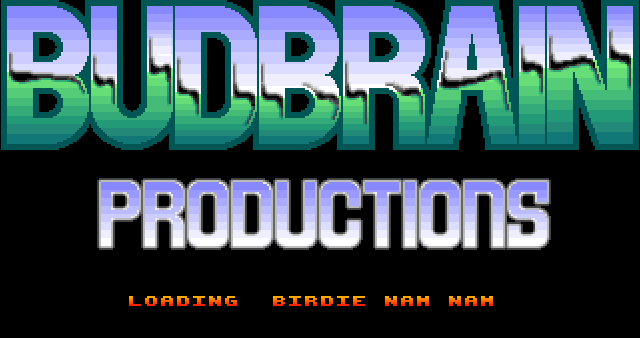
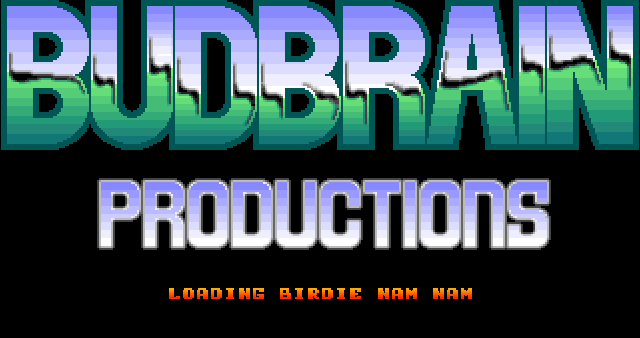
Added audio unlock handler

Changed region(s): [[0.1875, 0.8284, 0.7812, 0.9172]]

diff --git a/public/src/demoscene/birdy nam nam.js b/public/src/demoscene/birdy nam nam.js
@@ -10,7 +10,10 @@ var demoSceneConfig = {
     active: false,
     visible: false,
     preload: preload,
-    create: create
+    create: create,
+    extend: {
+        startDemo: startDemo
+    }
 };
 
 var config = {
@@ -27,23 +30,25 @@ var egg = 0;
 var chick1;
 var chick2;
 var chick3;
+var loadImage;
 
 var game = new Phaser.Game(config);
 
 function bootLoader ()
 {
     this.load.image('loader', 'assets/demoscene/birdy-nam-nam-loader.png');
+    this.load.image('click', 'assets/demoscene/birdy-nam-nam-click.png');
 }
 
 function bootCreate ()
 {
-    this.add.image(0, 0, 'loader').setOrigin(0);
-
-    this.scene.launch('demo');
+    this.scene.start('demo');
 }
 
 function preload ()
 {
+    loadImage = this.add.image(0, 0, 'loader').setOrigin(0);
+
     this.load.audio('jungle', [ 'assets/audio/jungle.ogg', 'assets/audio/jungle.mp3' ]);
     this.load.animation('birdyAnims', 'assets/demoscene/birdy.json');
     this.load.image('bg1', 'assets/demoscene/birdy-nam-nam-bg1.png');
@@ -57,14 +62,33 @@ function create ()
 
     track = this.sound.add('jungle');
 
-    this.add.image(0, 0, 'bg1').setOrigin(0);
-
     this.anims.create({
         key: 'lay',
         frames: this.anims.generateFrameNames('birdy', { prefix: 'lay', start: 0, end: 19 }),
         frameRate: 28,
         delay: 1
     });
+
+    if (this.sound.locked)
+    {
+        loadImage.setTexture('click');
+
+        this.sound.once('unlocked', function ()
+        {
+            this.startDemo();
+        }, this);
+    }
+    else
+    {
+        this.startDemo();
+    }
+}
+
+function startDemo ()
+{
+    loadImage.setVisible(false);
+
+    this.add.image(0, 0, 'bg1').setOrigin(0);
 
     bird = this.add.sprite(328, 152, 'birdy', 'lay0').setOrigin(0).setDepth(10);
 
